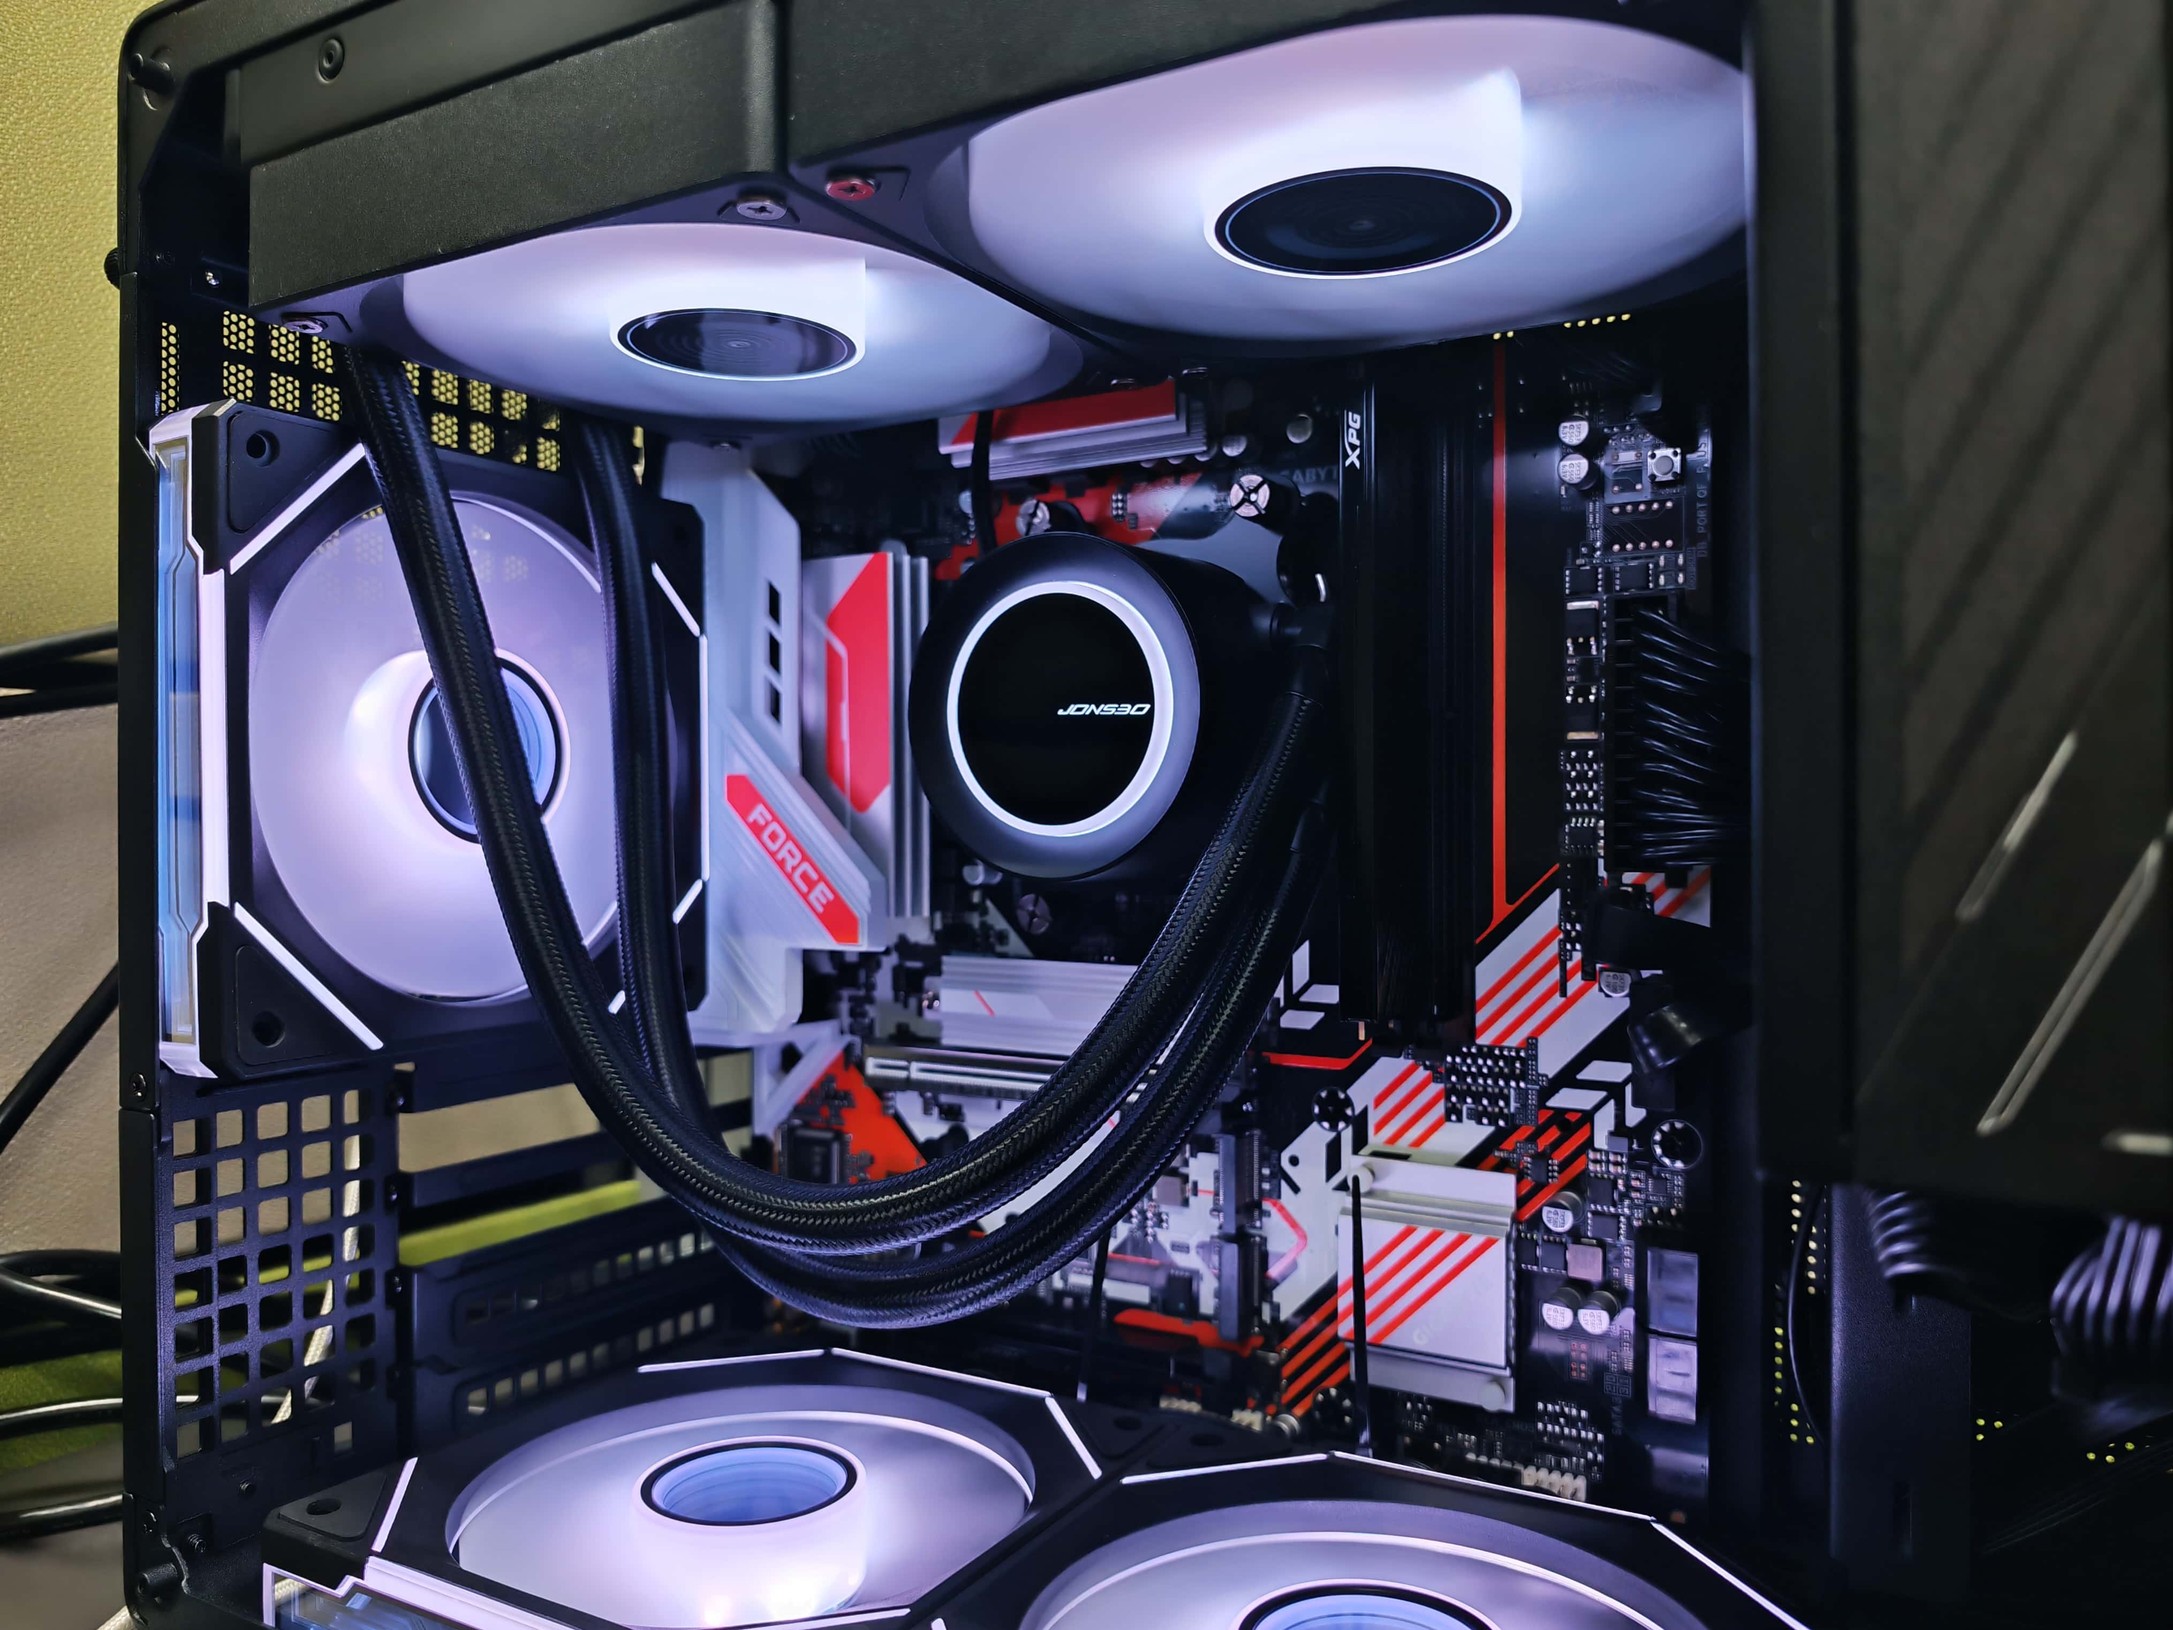
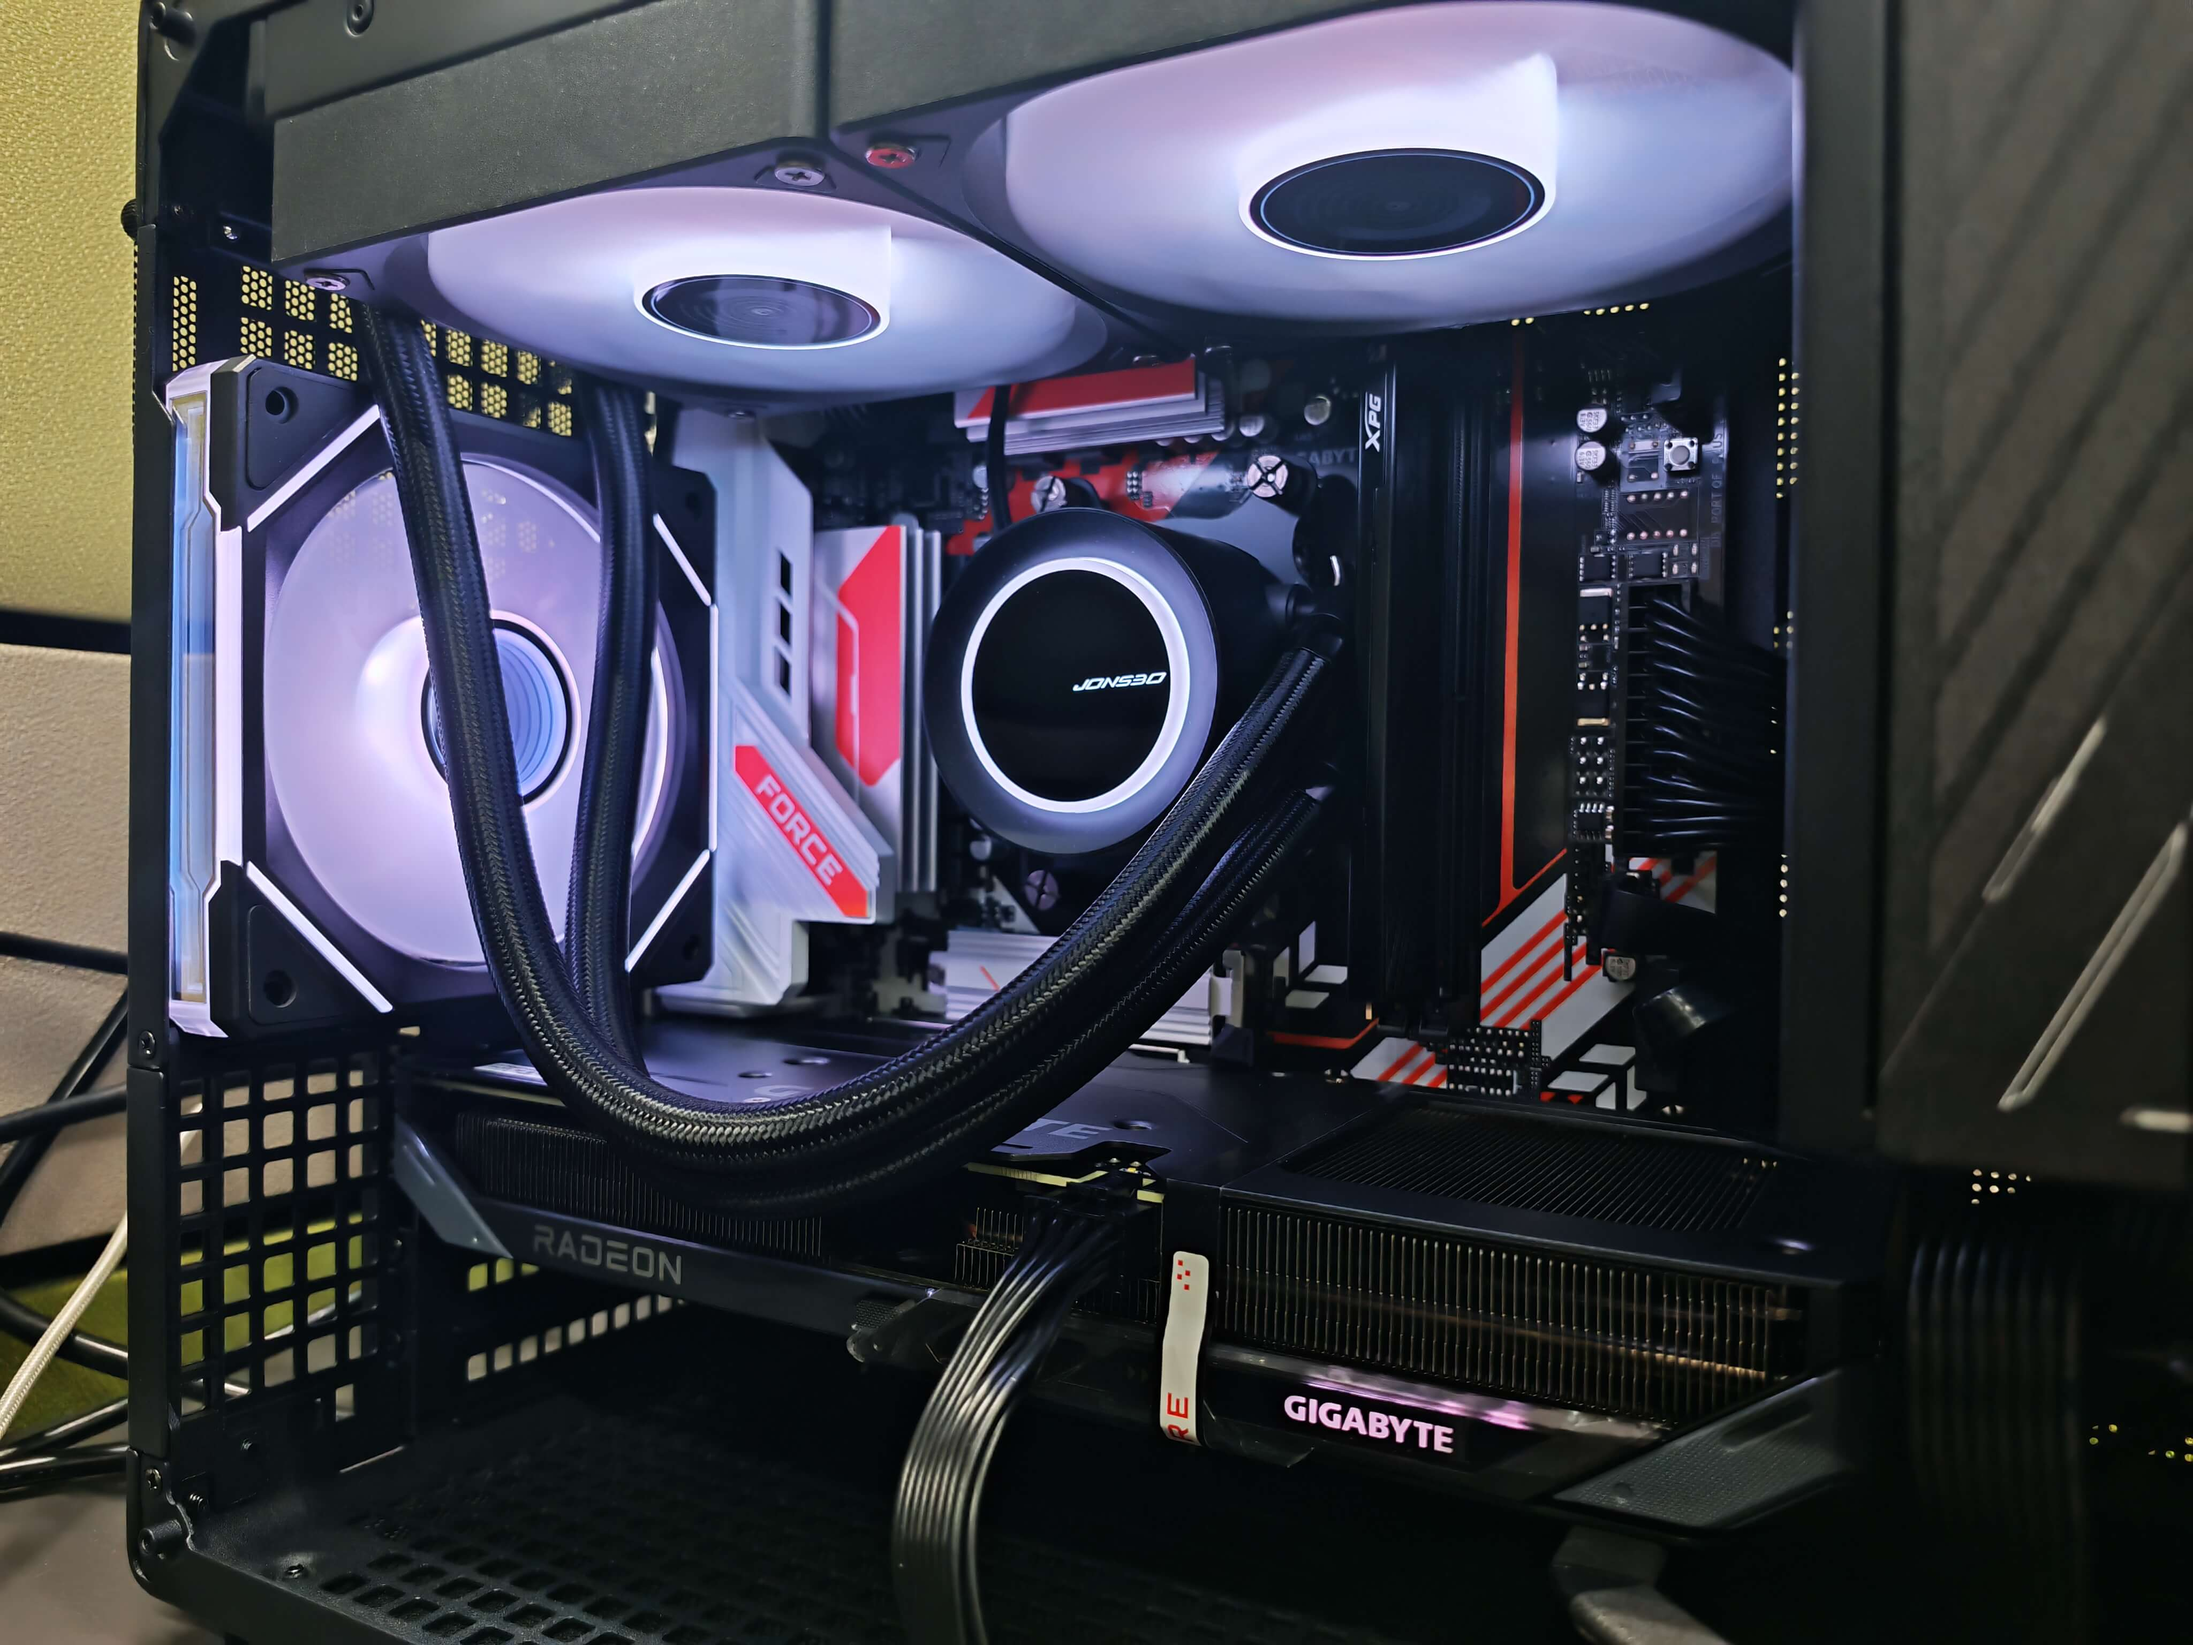
Add GPU

diff --git a/data/toolkit.html b/data/toolkit.html
@@ -535,8 +535,9 @@ table tbody+tbody {
 	<p><span>Desktop computer: <a href='./desktop-computer.jpg' target='_blank' ><span>(Photo)</span></a></span></p>
 	<ul>
 		<li><p><span>CPU: </span><a href='https://www.amd.com/en/products/processors/desktops/ryzen.html'><span>AMD Ryzen 5 9600X</span></a> (Cooler: <a href='https://www.jonsbo.com/en/product/AIOLiquidRadiator.html'><span>Jonsbo TG-240</span></a>, CPU &lt; 70°C under full load)</p></li>
-		<li><p><span>Motherboard: </span><a href='https://www.gigabyte.com/sg/Motherboard'><span>Gigabyte B850M Force WiFi6E</span></a></p></li>
+		<li><p><span>Motherboard: </span><a href='https://www.gigabyte.com/sg/Motherboard'><span>GIGABYTE B850M Force WiFi6E</span></a></p></li>
 		<li><p><span>RAM: </span><a href='https://www.xpg.com/ng/category/computer-memory'><span>XPG D300 6000MHz CL36 24GB</span></a></p></li>
+		<li><p><span>GPU: </span><a href='https://www.gigabyte.com/sg/Graphics-Card/GV-R9060XTGAMING-16GD'><span>Gigabyte RX 9060 XT GAMING OC 16G</span></a></p></li>
 		<li><p><span>Storage: </span><a href='https://sixmemory.com/'><span>SIX X7400 NVMe M.2 SSD 512GB</span></a></p></li>
 		<li><p><span>Case: </span><a href='https://www.jonsbo.com/en/product/ComputerCase.html'><span>Jonsbo Z20 Micro-ATX</span></a><span>.</span></p></li>
 	</ul>
